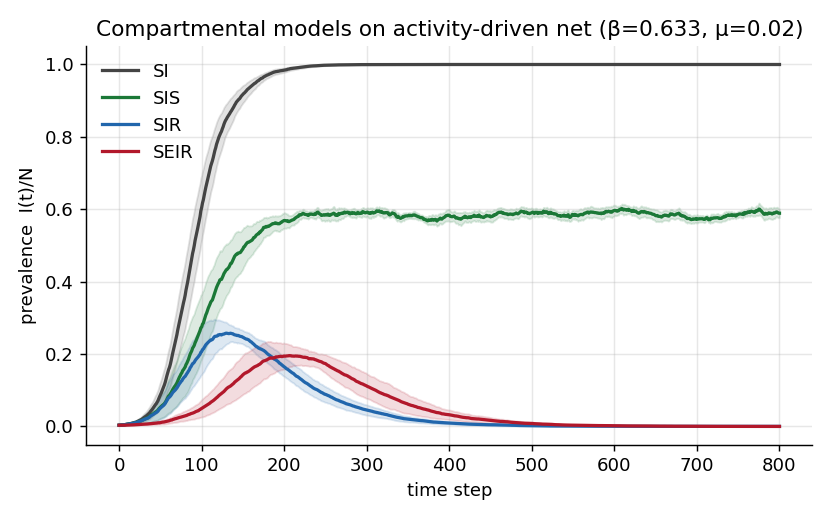
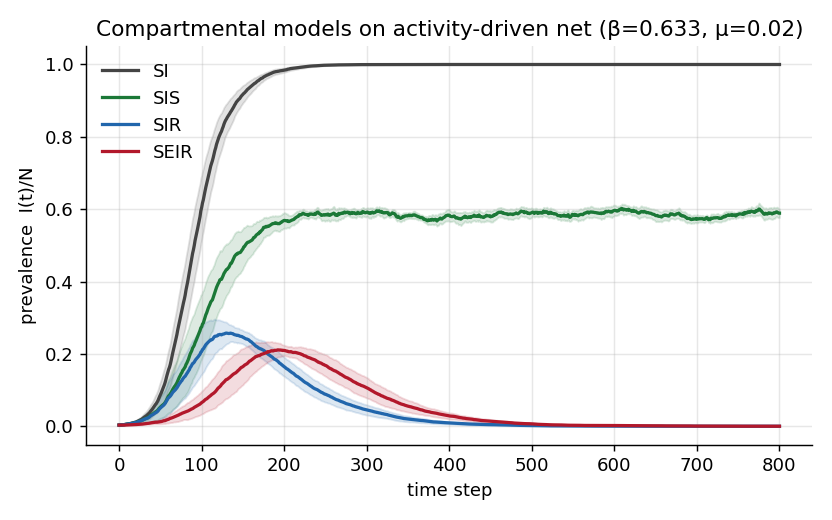
Align report claims with measured values; fix SEIR progression-recovery order
- report: hub-degree growth restated as roughly an order of magnitude (up to
  ~100x for AS174/AS3356), community count 'more than doubles', sigma 0.025,
  SIR peak 0.17, LCC wording; state explicitly that edge weights measure
  observation frequency, not capacity, bandwidth, traffic or economic ties
- epidemics engine: draw recoveries from the pre-step infectious set so nodes
  promoted E->I stay infectious for a full step (fig1 regenerated; SI/SIS/SIR
  outputs unchanged)
- docstring/README accuracy: fetch_bview role, 50k truncation threshold,
  restartability scope, partner sampling with replacement, runtimes

Changed region(s): [[0.1562, 0.6462, 0.6875, 0.8308], [0.75, 0.8, 0.875, 0.8308]]

diff --git a/latex/sections/internet_as_bgp.tex b/latex/sections/internet_as_bgp.tex
@@ -7,27 +7,28 @@
 At the coarsest scale the Internet is a network of \emph{Autonomous Systems}
 (ASes) exchanging reachability information through the Border Gateway Protocol
 (BGP). We reconstruct one AS-level snapshot per month from the routing-table
-dumps archived by the RIPE RIS collector \texttt{rrc00}~\cite{ripeRIS}, taking
-the first available \texttt{bview} dump of each month (day~01 at 00:00~UTC
-when present; the exact file used is recorded in a manifest). The archive
+dumps of the RIPE RIS collector \texttt{rrc00}~\cite{ripeRIS}, taking each
+month's first available \texttt{bview} (day~01 at 00:00~UTC when present; the
+exact file used is recorded in a manifest). The archive
 spans \textbf{November 1999 -- April 2026}; 314 of the 318 calendar months
 yield a usable table (April--July 2000 are missing from the archive;
 truncated files are replaced by the month's largest dump). Three archive
-formats occur --- modern MRT (parsed with \texttt{bgpdump}), the pre-2001
-Zebra MRT dialect and the GateD text tables of early 2000 --- the latter two
-read by purpose-written parsers (supplementary Sec.~\ref{sec:as-supp}).
+formats occur --- modern MRT (parsed with \texttt{bgpdump}), pre-2001 Zebra
+MRT and the GateD text tables of 2000, the latter two read by purpose-written
+parsers (supplementary Sec.~\ref{sec:as-supp}).
 
-Every \texttt{AS\_PATH} is cleaned as follows: consecutive duplicate ASNs are
-collapsed (route prepending); malformed or empty paths are dropped; paths
-containing \texttt{AS\_SET}s are dropped entirely (median $0.02\%$ of entries
-per month); paths shorter than two ASNs are dropped. At least $96.4\%$ of RIB
-entries are retained in every month (median $99.9\%$). Each consecutive ASN
+Every \texttt{AS\_PATH} is cleaned: consecutive duplicate ASNs are collapsed
+(route prepending); malformed or empty paths, paths containing
+\texttt{AS\_SET}s (median $0.02\%$ of entries per month) and paths shorter
+than two ASNs are dropped. At least $96.4\%$ of RIB entries are retained in
+every month (median $99.9\%$). Each consecutive ASN
 pair of a retained path becomes an undirected edge in canonical
-$(\min,\max)$ order, self-loops are discarded, and the integer edge weight
-counts the RIB entries in which the pair was observed that month; ignoring
-the weight column yields the unweighted simple graph used for all metrics.
-ASNs are the integer AS numbers from the dumps, so node identity is
-consistent across snapshots; per-month cleaning statistics accompany the
+$(\min,\max)$ order (self-loops discarded); the integer weight counts the
+RIB entries in which the pair appears that month --- an observation
+frequency, \emph{not} capacity, bandwidth, traffic volume or economic
+relationship. Ignoring weights yields the unweighted simple graph used for
+all metrics. ASNs are the integer AS numbers from the dumps, so node identity
+is consistent across snapshots; per-month cleaning statistics accompany the
 edge lists.
 
 An essential caveat: these graphs are \emph{not} the physical Internet
@@ -47,16 +48,16 @@ graph grows from $6\,045$ nodes and $10\,634$ edges (Nov.~1999) to $86\,114$
 nodes and $239\,705$ edges (Apr.~2026), i.e.\ $\times14.2$ and $\times22.5$.
 Densification is mild --- $\langle k\rangle$ rises from $3.5$ to $5.6$ --- and
 the sharp 2019--2021 step coincides with a major expansion of the collector's
-peer set (a visibility effect). The graph is one connected component at all
-times (LCC $\geq99.99\%$ of nodes; two snapshots are drawn in supplementary
-Fig.~\ref{fig:assnap}).
+peer set (a visibility effect). The graph is effectively a single connected
+component throughout (LCC $\geq99.99\%$ of nodes in every month; two
+snapshots are drawn in supplementary Fig.~\ref{fig:assnap}).
 
 The degree distribution is heavy-tailed in every snapshot (supplementary
 Fig.~\ref{fig:asdegree}), the classical signature of the AS
 graph~\cite{faloutsos1999power}. Discrete maximum-likelihood
 fits~\cite{clauset2009power,alstott2014powerlaw} give a strikingly stable
 exponent, $\hat\alpha\in[2.01,2.21]$ across the whole series (typical
-$\hat\sigma\approx0.03$), averaging $2.12$ in the first five years and $2.10$
+$\hat\sigma\approx0.025$), averaging $2.12$ in the first five years and $2.10$
 in the last five: the scale-free character of the AS topology persists while
 the network grows by more than an order of magnitude. A log-likelihood
 comparison with the lognormal~\cite{clauset2009power} is inconclusive in
@@ -71,8 +72,9 @@ The apex is instead rigid: consecutive months share $95\%$ of their top-20
 highest-degree ASes, and the dominant transit providers change only on
 multi-year timescales --- the 1999 leaders (AS701 UUNET, AS1239 Sprint) give
 way to AS174 (Cogent), AS3356 (Level\,3/Lumen) and, since the mid-2010s,
-AS6939 (Hurricane Electric); hub \emph{identity} is sticky even as hub degree
-grows 100-fold.
+AS6939 (Hurricane Electric); hub \emph{identity} is sticky even as hub
+degrees grow by roughly an order of magnitude (and up to $\sim$100-fold for
+AS174 and AS3356 relative to their 1999 values).
 Degree--degree correlations are strongly disassortative throughout,
 $\langle k_{nn}\rangle(k)\sim k^{\mu}$ with $\mu\approx-0.53$ around
 2000~\cite{pastorsatorras2001dynamical}, drifting steadily to
@@ -80,8 +82,8 @@ $\mu\approx-0.70$ by 2024--2026: low-degree customers hang ever more
 exclusively off high-degree providers. Leiden community
 detection~\cite{traag2019leiden} finds significant but evolving mesoscale
 structure: modularity rises to a plateau of $Q\approx0.72$ around 2010, then
-falls to $\approx0.61$ after 2019 while the number of communities triples
-($\sim$30 to $\sim$80): more visible interconnection (IXPs, direct content
+falls to $\approx0.61$ after 2019 while the number of communities more than
+doubles ($\sim$30 to $\sim$80): more visible interconnection (IXPs, direct content
 peering) flattens the hierarchy, and a better-instrumented collector sees
 more of it (supplementary Fig.~\ref{fig:asstructure}).
 

diff --git a/code/temporal_epidemics/epidemic.py b/code/temporal_epidemics/epidemic.py
@@ -61,14 +61,15 @@ class Trajectory:
 
     @property
     def cumulative_incidence(self) -> float:
-        """Final fraction ever infected (peak of I+R+E vs the initial susceptibles)."""
+        """(E+I+R)/N at the last step: the fraction ever infected for SI/SIR/SEIR
+        (for SIS, where recovery returns to S, it is the final infected fraction)."""
         N = self.S[0] + self.E[0] + self.I[0] + self.R[0]
         return float((self.E[-1] + self.I[-1] + self.R[-1]) / N)
 
     @property
-    def endemic_prevalence(self, frac: float = 0.2) -> float:
-        """Mean prevalence over the last ``frac`` of the run (SI/SIS steady state)."""
-        k = max(1, int(len(self.I) * frac))
+    def endemic_prevalence(self) -> float:
+        """Mean prevalence over the last 20% of the run (SI/SIS steady state)."""
+        k = max(1, int(len(self.I) * 0.2))
         N = self.S[0] + self.E[0] + self.I[0] + self.R[0]
         return float(self.I[-k:].mean() / N)
 
@@ -119,16 +120,16 @@ def simulate(net, model: str = "SIR", beta: float = 0.5, mu: float = 0.01,
             newly = np.empty(0, dtype=np.int64)
 
         # ---- 2. progression + recovery on the pre-step state --------------- #
-        if has_E:
+        if recovers:
+            infectious = np.nonzero(state == I)[0]  # pre-step I set: nodes promoted
+        if has_E:                                   # this step stay I >= 1 full step
             exposed = np.nonzero(state == E)[0]
             if exposed.size:
                 promote = exposed[rng.random(exposed.size) < sigma]
                 state[promote] = I
-        if recovers:
-            infectious = np.nonzero(state == I)[0]
-            if infectious.size:
-                rec = infectious[rng.random(infectious.size) < mu]
-                state[rec] = rec_state
+        if recovers and infectious.size:
+            rec = infectious[rng.random(infectious.size) < mu]
+            state[rec] = rec_state
 
         # ---- 3. commit new infections -------------------------------------- #
         state[newly] = E if has_E else I

diff --git a/latex/sections/temporal_epidemics.tex b/latex/sections/temporal_epidemics.tex
@@ -49,7 +49,7 @@ network~\cite{isella2011whats} (113 attendees, $\sim$59 h, 5-min snapshots).
 Every temporal run is compared with two null models built from the same data
 --- the \emph{aggregated static} network and a \emph{time-shuffled} surrogate
 (contacts reassigned to random steps, preserving the aggregate and contact
-volume) --- with results averaged over 15--40 seeded realisations
+volume) --- with results averaged over 8--40 seeded realisations
 (supplementary Sec.~\ref{sec:epi-supp}).
 
 \section{Results}
@@ -64,7 +64,7 @@ $\sim$800 (Table~\ref{tab:epi}). The time-shuffled curve coincides with the
 temporal one: in a memoryless AD model the \emph{ordering} of contacts is
 immaterial --- what matters is concurrency. Panel~(c) isolates that effect for
 SIR: aggregating the timeline turns a slow, bounded outbreak (peak prevalence
-$\approx0.18$) into an explosive one (peak $\approx0.98$, final size 1).
+$\approx0.17$) into an explosive one (peak $\approx0.98$, final size 1).
 Panel~(d) varies the backbone \emph{structure}: at equal
 $\langle k\rangle=4$, the scale-free backbone spreads markedly more than the
 homogeneous one (peak $0.12$ vs.\ $0.06$), both far below their common
@@ -103,7 +103,7 @@ spreads more than the homogeneous ER one.}
 \paragraph{Method details.} Synthetic defaults: $N=1500$, $T=800$ steps, $m=1$,
 $\gamma=2.1$, $\varepsilon=10^{-2}$, $\mu=0.02$. The AD activity distribution is
 $a_i \propto x^{-\gamma}$ with $x\in[\varepsilon,1]$; backbone edge-activation
-uses $p$ chosen to match the AD contact volume. The empirical dataset
+uses $p$ chosen to give a contact volume comparable to the AD runs. The empirical dataset
 (SocioPatterns Hypertext 2009, 20-s resolution) is binned into 5-minute
 snapshots. All experiments are seeded and reproducible with a single command;
 generators, the epidemic engine, threshold calculators and the output edge

diff --git a/code/internet_as_bgp/fetch_bview.py b/code/internet_as_bgp/fetch_bview.py
@@ -9,8 +9,8 @@ Usage:
     python fetch_bview.py --start 1999-11 --end 2026-04 --out ../../data/internet_as_bgp/raw
     python fetch_bview.py --start 2010-01 --end 2010-12 --dry-run      # list only, no download
 
-This is a STUB to validate the download step on a small window before scaling to the
-full ~318-month series. Verify behavior on a 1-year window first.
+Used in two ways: as a library by build_edges.py (list_bviews/pick supply the monthly
+file selection) and standalone to inspect (--dry-run) or pre-download a window.
 """
 import argparse, os, re, sys, urllib.request
 from datetime import date

diff --git a/code/temporal_epidemics/temporal_networks.py b/code/temporal_epidemics/temporal_networks.py
@@ -115,7 +115,8 @@ def activity_driven(N: int = 2000, T: int = 1000, m: int = 1,
 
     Each node i has activity a_i = eta * x_i with x_i ~ f(x) = x^{-gamma},
     x in [eps, 1].  At every step, node i is active with probability a_i and, if
-    active, opens m undirected links to m distinct uniformly-chosen partners.
+    active, opens m undirected links to uniformly-chosen partners (sampled with
+    replacement; accidental self-pairs are dropped).
     """
     rng = np.random.default_rng(seed)
     a = np.clip(eta * _sample_activity(N, gamma, eps, rng), 0.0, 1.0)

diff --git a/code/internet_as_bgp/README.md b/code/internet_as_bgp/README.md
@@ -32,7 +32,7 @@ Three archive formats are handled transparently: modern MRT `TABLE_DUMP`/
 the pre-2001 Zebra MRT dialect (single record packing many RIB entries, 16-bit
 ASNs — built-in binary parser), and the gzipped GateD *text* tables that appear
 in a few months of 2000 (built-in text parser). Truncated/corrupt archive
-files are detected (a real table dump always yields ≥100k usable paths) and
+files are detected (a real table dump always yields ≥50k usable paths) and
 the pipeline falls back to the remaining files of the month, largest first.
 
 ## Outputs (in `data/internet_as_bgp/`)
@@ -57,5 +57,6 @@ python analyze_networks.py                            # ~30 min
 python make_figures.py
 ```
 
-Both stages are restartable: months whose edge file already exists are skipped
-(`--overwrite` forces a rebuild).
+The build stage is restartable: months whose edge file already exists are
+skipped (`--overwrite` forces a rebuild); `analyze_networks.py` recomputes its
+tables in full each run (cheap next to the build).

diff --git a/code/temporal_epidemics/README.md b/code/temporal_epidemics/README.md
@@ -14,8 +14,8 @@ surrogates, and against the mean-field epidemic thresholds.
 
 ## Run
 ```bash
-pip install python-igraph numpy matplotlib     # scipy/pandas already present
-python run_experiments.py                       # ~10 s, fully seeded
+pip install python-igraph numpy matplotlib
+python run_experiments.py                       # ~15 s, fully seeded
 ```
 Outputs: figures in `figures/`, edge lists + trajectory + thresholds in
 `../../data/temporal_epidemics/`.
@@ -29,7 +29,7 @@ Outputs: figures in `figures/`, edge lists + trajectory + thresholds in
   the temporal dynamics have none. Time-shuffled ≈ temporal (ordering is
   irrelevant in a memoryless activity-driven model — a control).
 - **fig3** — aggregating the timeline (all contacts simultaneous) turns a slow,
-  bounded temporal outbreak into an explosive one (peak ≈0.98 vs ≈0.18).
+  bounded temporal outbreak into an explosive one (peak ≈0.98 vs ≈0.17).
 - **fig4** — backbone structure at fixed ⟨k⟩=4: the scale-free BA network spreads
   more than the homogeneous ER one (peak 0.12 vs 0.06).
 - **fig5** — the same analysis on the empirical SocioPatterns Hypertext-2009